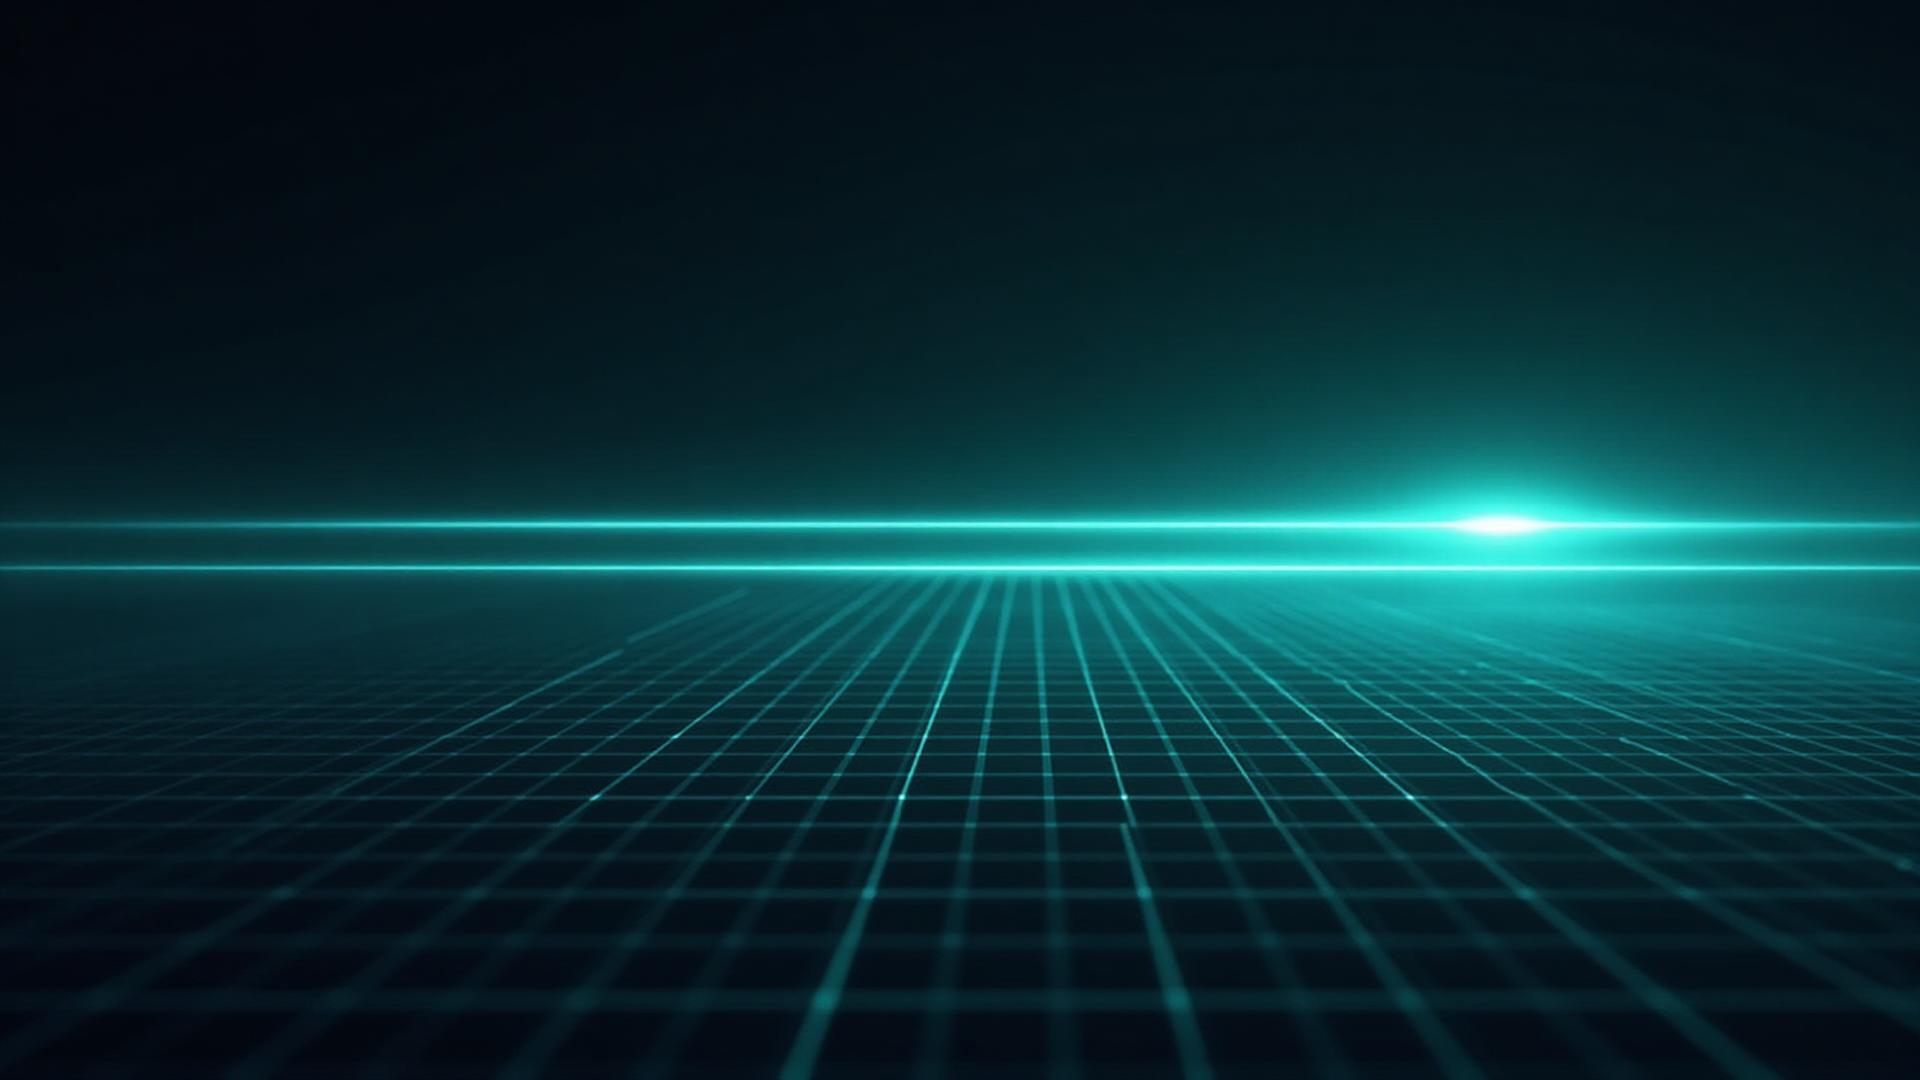
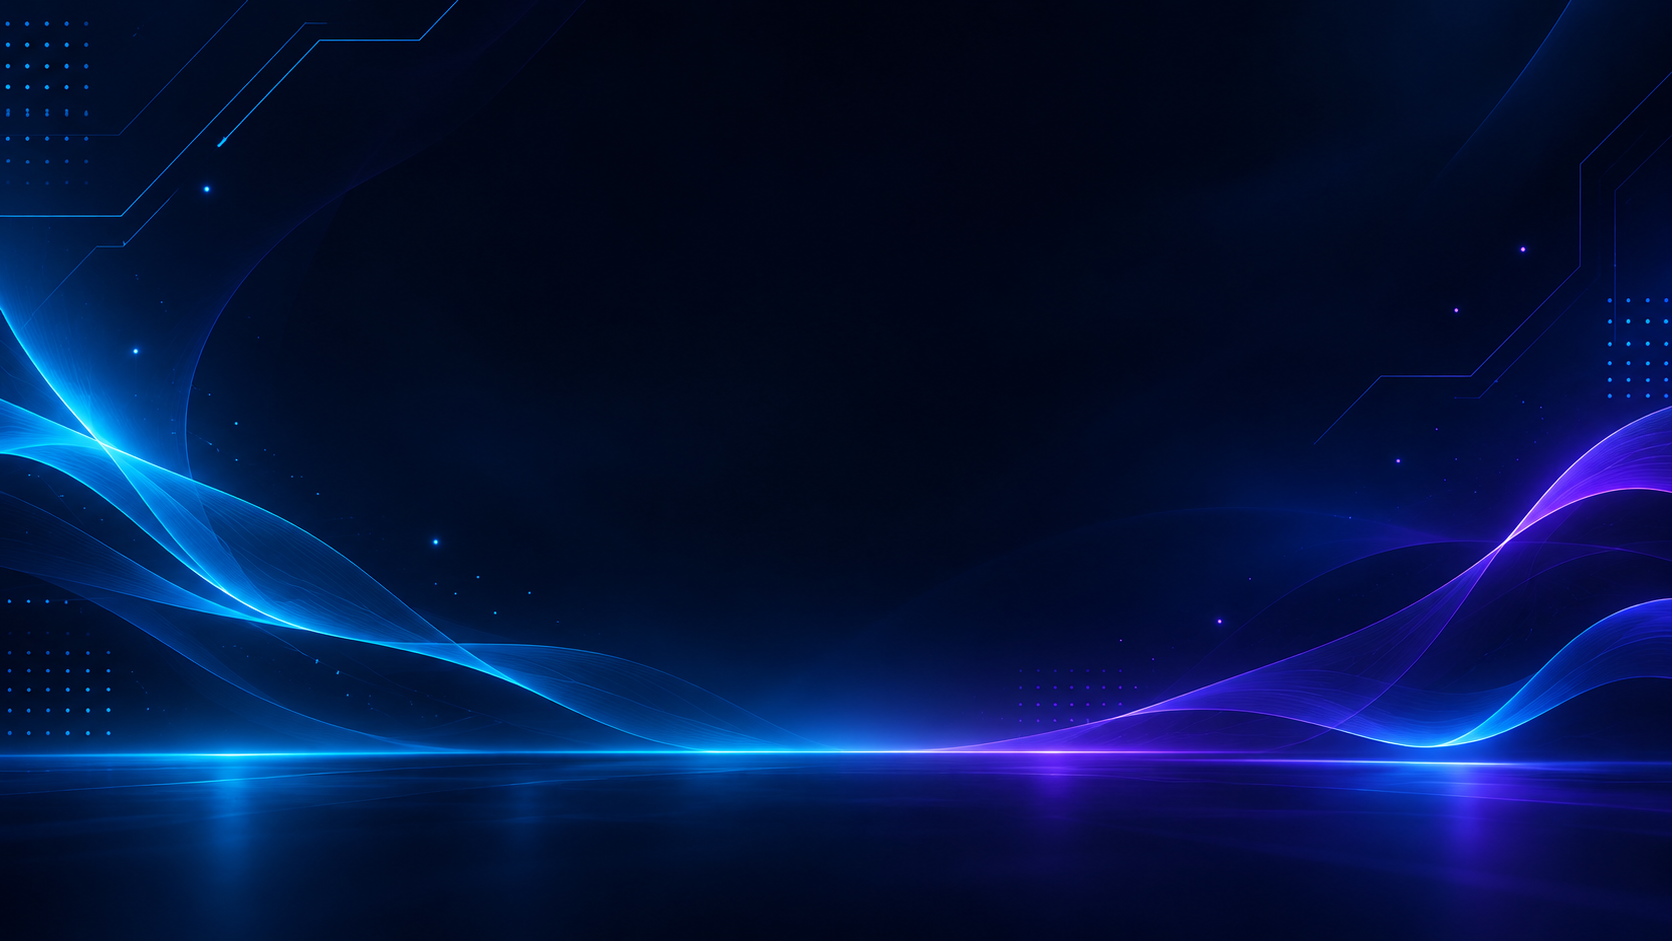
Updated Hero Section

diff --git a/src/sections/Hero.jsx b/src/sections/Hero.jsx
@@ -210,41 +210,97 @@ export const Hero = () => {
         </div>
 
         {/* Skills Section */}
-        <div className="mt-20 animate-fade-in animation-delay-600">
-          <p className="text-sm text-muted-foreground mb-6 text-center">
-            {t("hero.technologies")}
-          </p>
 
-          <div className="relative overflow-hidden">
-            <div className="flex animate-marquee">
-              {[...skills, ...skills].map((skill, idx) => (
-                <div
-                  key={`${skill.name}-${idx}`}
-                  className="flex-shrink-0 px-3 py-4 sm:px-4"
-                >
-                  <div className="group relative flex h-20 w-28 flex-col items-center justify-center gap-2 rounded-2xl border border-white/[0.07] bg-[#0d1420]/80 px-3 backdrop-blur-xl transition-all duration-500 ease-out hover:-translate-y-2 hover:scale-[1.03] hover:border-primary/40 hover:bg-[#111a28] hover:shadow-[0_18px_45px_rgba(79,140,255,0.18)] sm:h-24 sm:w-32">
-                    {/* Soft glow behind card */}
-                    <div className="pointer-events-none absolute inset-x-4 -bottom-3 h-5 rounded-full bg-primary/20 opacity-0 blur-xl transition-all duration-500 group-hover:opacity-100" />
+        {/* Skills Section */}
 
-                    {/* Technology Icon */}
-                    {skill.image && (
-                      <div className="relative z-10 transition-all duration-500 ease-out group-hover:-translate-y-1">
-                        <img
-                          src={skill.image}
-                          alt={`${skill.name} icon`}
-                          className="h-8 w-8 object-contain opacity-55 grayscale transition-all duration-500 ease-out group-hover:scale-110 group-hover:opacity-100 group-hover:grayscale-0"
-                        />
-                      </div>
-                    )}
+        <div className="relative mt-24 sm:mt-28 lg:mt-32 animate-fade-in animation-delay-600">
+          {/* Ambient Background */}
+          <div className="pointer-events-none absolute left-1/2 top-1/2 -z-10 h-80 w-[90%] -translate-x-1/2 -translate-y-1/2 rounded-full bg-primary/[0.055] blur-[110px]" />
 
-                    {/* Technology Name */}
-                    <span className="relative z-10 text-center text-[10px] font-semibold text-muted-foreground/70 transition-all duration-500 group-hover:text-foreground sm:text-xs">
-                      {skill.name}
-                    </span>
-                  </div>
-                </div>
-              ))}
+          {/* Section Header */}
+          <div className="mx-auto mb-10 max-w-2xl text-center sm:mb-14">
+            <span className="inline-flex items-center gap-2 rounded-full border border-primary/20 bg-primary/[0.07] px-4 py-2 text-[10px] font-bold uppercase tracking-[0.2em] text-primary sm:text-xs">
+              <span className="h-2 w-2 rounded-full bg-primary shadow-[0_0_12px_#4f8cff]" />
+              Technology Stack
+            </span>
+
+            <h2 className="mt-5 text-3xl font-bold tracking-tight text-foreground sm:text-4xl lg:text-5xl">
+              {t("hero.technologies")}
+            </h2>
+
+            <p className="mx-auto mt-4 max-w-xl text-sm leading-relaxed text-muted-foreground sm:text-base">
+              Technologies, frameworks, and tools I work with to build modern
+              and scalable digital solutions.
+            </p>
+
+            {/* Technology Count */}
+            <div className="mt-6 inline-flex items-center gap-3 rounded-full border border-white/[0.06] bg-white/[0.025] px-4 py-2">
+              <span className="h-1.5 w-1.5 rounded-full bg-cyan-400" />
+              <span className="text-xs font-medium text-muted-foreground">
+                {skills.length} Technologies & Tools
+              </span>
             </div>
+          </div>
+
+          {/* Technology Cards */}
+          <div className="mx-auto grid max-w-6xl grid-cols-2 gap-3 sm:grid-cols-3 sm:gap-4 md:grid-cols-4 lg:grid-cols-5 lg:gap-5">
+            {skills.map((skill, idx) => {
+              const accentColors = [
+                "hover:border-blue-400/40",
+                "hover:border-cyan-400/40",
+                "hover:border-violet-400/40",
+                "hover:border-indigo-400/40",
+                "hover:border-sky-400/40",
+              ];
+
+              return (
+                <div
+                  key={skill.name}
+                  className={`group relative flex min-h-[138px] flex-col items-center justify-center overflow-hidden rounded-2xl border border-white/[0.07] bg-[#0d1420]/75 px-3 py-5 text-center shadow-[0_4px_20px_rgba(0,0,0,0.12)] backdrop-blur-xl transition-[transform,border-color,background-color,box-shadow] duration-300 ease-out hover:-translate-y-1.5 hover:bg-[#111d2d] hover:shadow-[0_15px_35px_rgba(79,140,255,0.10)] active:scale-[0.98] motion-reduce:transform-none motion-reduce:transition-none sm:min-h-[155px] sm:rounded-3xl sm:px-4 sm:py-6 ${accentColors[idx % accentColors.length]}`}
+                >
+                  {/* Background Glow */}
+                  <div className="pointer-events-none absolute -right-12 -top-12 h-28 w-28 rounded-full bg-primary/15 opacity-0 blur-3xl transition-opacity duration-500 group-hover:opacity-100" />
+
+                  {/* Top Gradient Line */}
+                  <div className="absolute left-1/2 top-0 h-px w-0 -translate-x-1/2 bg-gradient-to-r from-transparent via-primary to-transparent transition-all duration-500 group-hover:w-4/5" />
+
+                  {/* Technology Icon */}
+                  <div className="relative z-10 mb-4 flex h-12 w-12 items-center justify-center rounded-2xl border border-white/[0.07] bg-white/[0.035] transition-all duration-300 ease-out group-hover:scale-110 group-hover:border-primary/20 group-hover:bg-primary/[0.08] sm:h-14 sm:w-14">
+                    {skill.image ? (
+                      <img
+                        src={skill.image}
+                        alt={`${skill.name} icon`}
+                        loading="lazy"
+                        className="h-7 w-7 object-contain transition-transform duration-300 group-hover:scale-110 sm:h-8 sm:w-8"
+                      />
+                    ) : (
+                      <span className="text-xl font-bold text-primary">
+                        {skill.name.charAt(0)}
+                      </span>
+                    )}
+                  </div>
+
+                  {/* Technology Name */}
+                  <span className="relative z-10 max-w-full break-words text-xs font-semibold leading-relaxed tracking-wide text-muted-foreground transition-colors duration-300 group-hover:text-foreground sm:text-sm">
+                    {skill.name}
+                  </span>
+
+                  {/* Bottom Accent */}
+                  <div className="absolute bottom-0 left-1/2 h-[2px] w-0 -translate-x-1/2 rounded-full bg-gradient-to-r from-blue-400 via-cyan-400 to-violet-400 transition-all duration-500 group-hover:w-1/2" />
+                </div>
+              );
+            })}
+          </div>
+
+          {/* Section Footer */}
+          <div className="mt-10 flex items-center justify-center gap-3 sm:mt-12">
+            <span className="h-px w-8 bg-gradient-to-r from-transparent to-border" />
+
+            <p className="text-center text-xs font-medium tracking-wide text-muted-foreground/70">
+              Always learning. Always building.
+            </p>
+
+            <span className="h-px w-8 bg-gradient-to-l from-transparent to-border" />
           </div>
         </div>
       </div>
